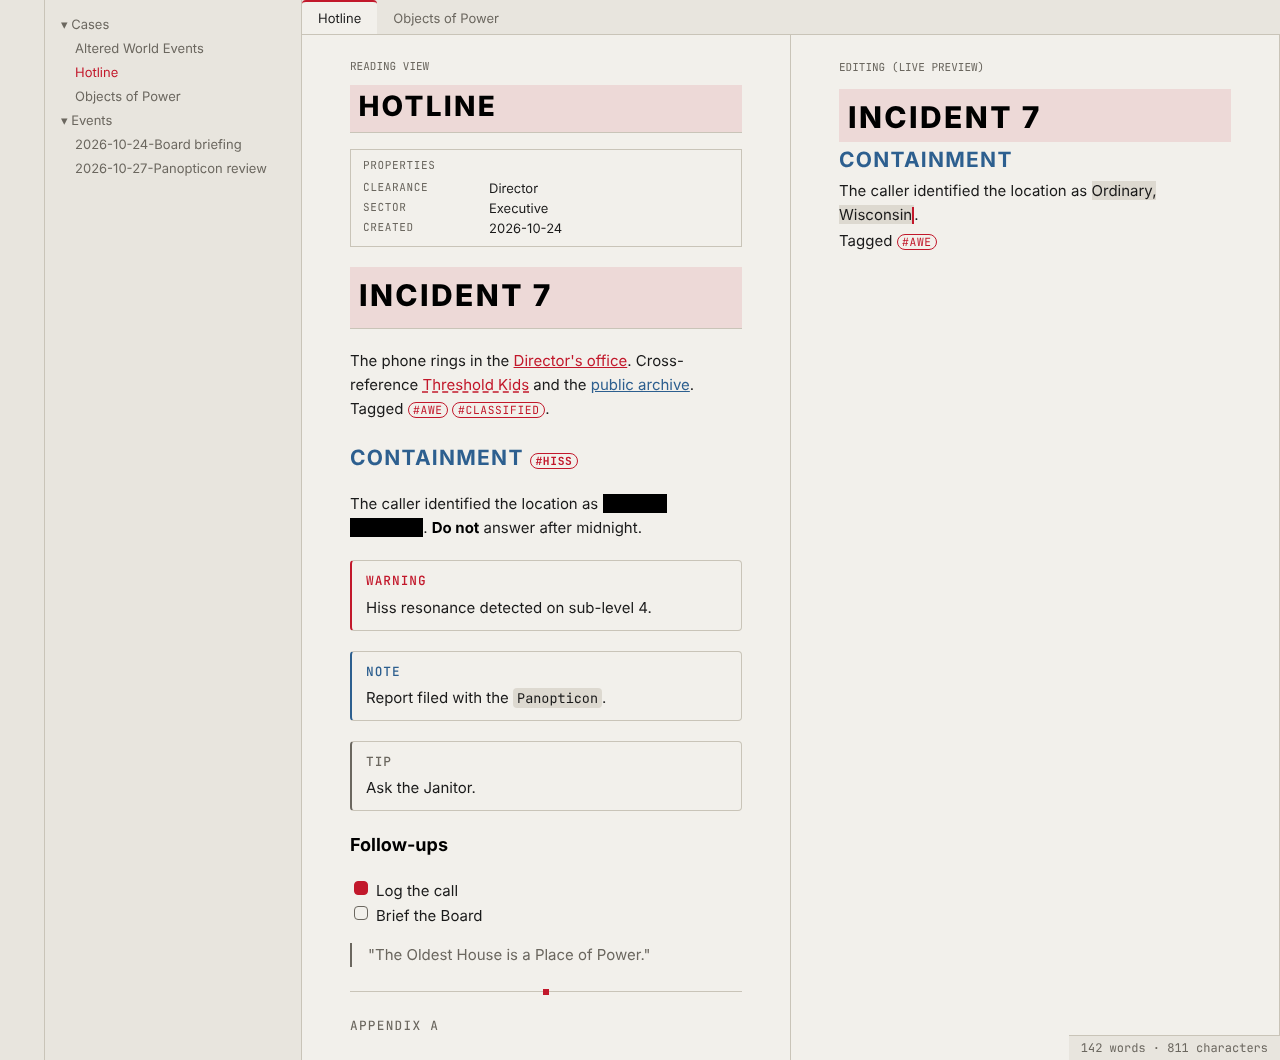
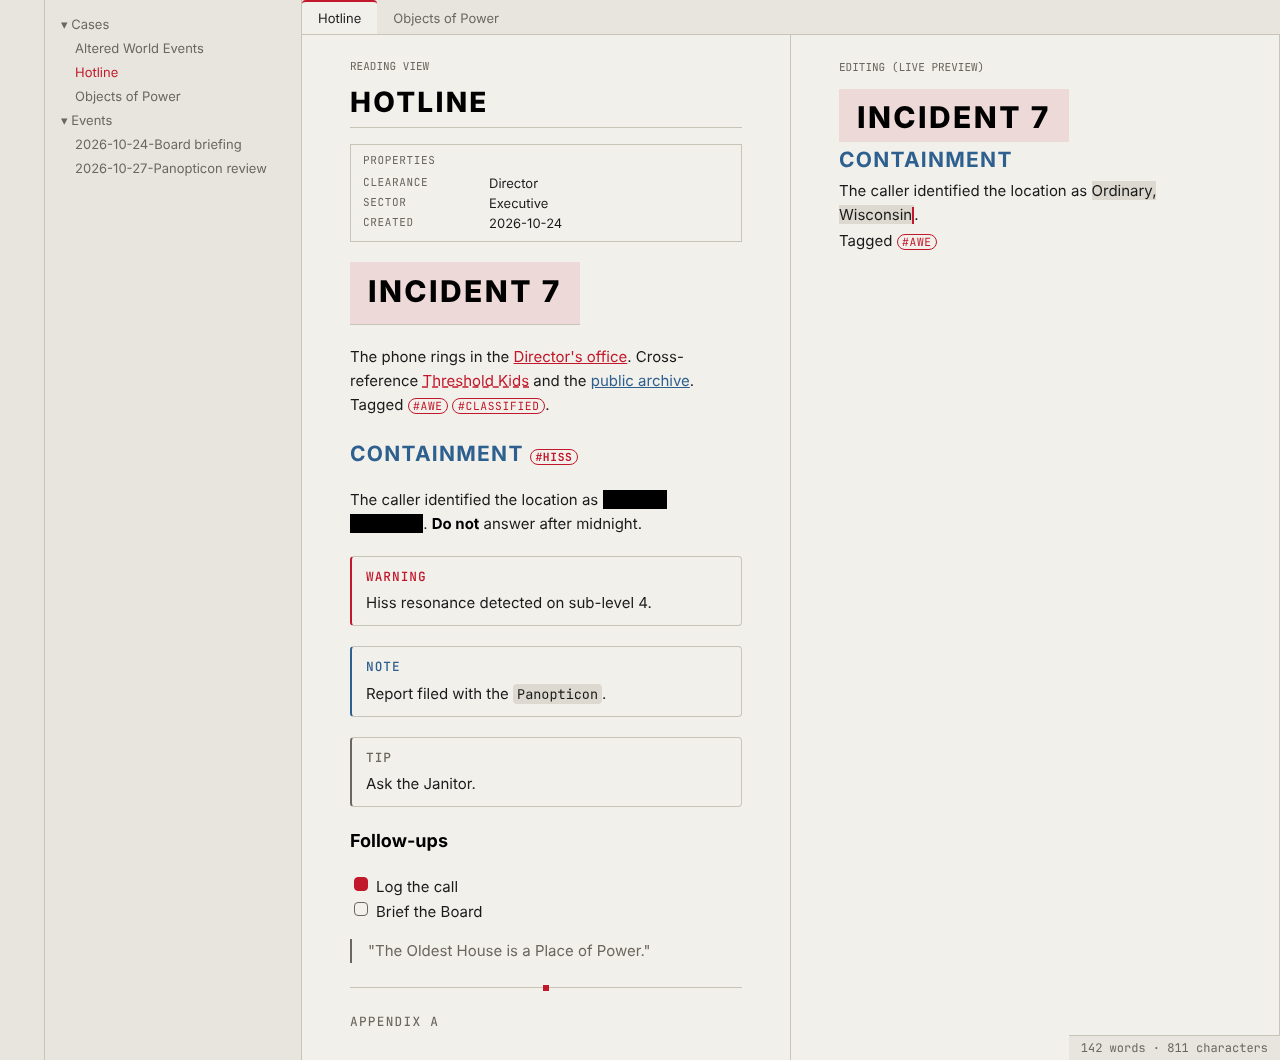
H1 tint: drop it from the note title, end it with the text, pad the left
- The inline (note) title keeps the plain title-card look.
- The H1 tint is as wide as the heading text (width: fit-content) in reading
  view and the editor, with 0.6em padding on each side.

Claude-Session: https://claude.ai/code/session_0183CVB8Nj2aCLdQP4iCXtwj

diff --git a/test/structure.test.js b/test/structure.test.js
@@ -87,12 +87,16 @@ test('active markers', () => {
   assert.equal(tab.decl['border-top'], '2px solid var(--bureau-red)');
 });
 
-test('H1 sits on a light red tint, still readable', () => {
+test('H1 sits on a light red tint that ends with the text, still readable', () => {
   const { hexToRgb } = require('./css');
   const h1 = find(/\.markdown-rendered h1\b/).find((r) => r.decl['background-color']);
   assert.ok(h1, 'an H1 rule sets background-color');
-  for (const s of ['.inline-title', '.HyperMD-header-1']) assert.ok(h1.selector.includes(s), s);
+  assert.ok(h1.selector.includes('.HyperMD-header-1'), 'editor H1 too');
+  assert.ok(!find(/\.inline-title/).some((r) => r.decl['background-color']), 'the note title has no tint');
   assert.equal(h1.decl['background-color'], 'var(--bureau-h1-background)');
+  // The tint hugs the text, with room on the left.
+  assert.equal(h1.decl.width, 'fit-content');
+  assert.equal(h1.decl['padding-left'], '0.6em');
 
   for (const mode of ['body.theme-dark', 'body.theme-light']) {
     const v = varsFor(css, mode);

diff --git a/theme.css b/theme.css
@@ -155,14 +155,15 @@ body.theme-light {
   border-bottom: 1px solid var(--background-modifier-border);
 }
 
-/* Top-level headings sit on a light red tint: the one place red is a fill. */
+/* H1 sits on a light red tint that ends with the text: the one place red is a
+   fill. The note title (inline title) keeps the plain title-card look. */
 .markdown-rendered h1,
-.inline-title,
 .HyperMD-header-1 {
+  width: fit-content;
   background-color: var(--bureau-h1-background);
   padding-top: 0.15em;
-  padding-left: 0.3em;
-  padding-right: 0.3em;
+  padding-left: 0.6em;
+  padding-right: 0.6em;
 }
 
 .markdown-rendered h2,

diff --git a/CLAUDE.md b/CLAUDE.md
@@ -10,7 +10,7 @@ typographic, restrained. Comfortable for hours of reading and writing, not just 
   a test enforces it): Obsidian's rounded UI, on mobile especially, clashed with square overrides.
 - **Two accents, one job each.** Red points inside the vault (internal links, tags, cursor,
   active file and tab, checkboxes). Blue points outside it (web links), plus H2. Neither is
-  a large fill, with one deliberate exception: a light red tint behind H1 and the inline title.
+  a large fill, with one deliberate exception: a light red tint behind H1 (not the note title).
 - Never neon, glow, glitch or gradients.
 - Every text colour is at least 4.5:1 on its background in both modes.
 - Spec: `docs/superpowers/specs/2026-10-24-bureau-theme-design.md`.
@@ -18,8 +18,8 @@ typographic, restrained. Comfortable for hours of reading and writing, not just 
 ## What the theme does (v0.0.1)
 - Dark ("the Oldest House") and light ("paper") palettes in `body.theme-dark` / `body.theme-light`;
   theme tokens `--bureau-strong`, `--bureau-red`, `--bureau-blue` and their `-rgb` forms.
-- Title-card headings (H1, inline title, H2 uppercase), H4–H6 monospace labels. H1 and the
-  inline title sit on `--bureau-h1-background` (red at 14% dark / 10% light).
+- Title-card headings (H1, inline title, H2 uppercase), H4–H6 monospace labels. H1 sits on
+  `--bureau-h1-background` (red at 14% dark / 10% light), as wide as its text, 0.6em padding.
 - Properties as a case-file header, tags as stamps, callouts as memos (every built-in type
   remapped to blue, red or grey).
 - `==highlights==` are redaction bars in reading view, revealed on hover/tap/focus; readable

diff --git a/docs/superpowers/specs/2026-10-24-bureau-theme-design.md b/docs/superpowers/specs/2026-10-24-bureau-theme-design.md
@@ -31,7 +31,7 @@ Mostly black and white. Two accents, each with one job:
 
 Rule of thumb: **red points inside the vault, blue points outside it** (plus one heading level).
 Neither accent is used as a large fill; red is at most a 2px bar or a stamp border, with one
-deliberate exception added later: a light red tint behind H1 and the inline title. Exact
+deliberate exception added later: a light red tint behind H1 (not the note title). Exact
 hex values may be nudged during implementation to keep body-text contrast at least 4.5:1
 (WCAG AA) on its background.
 
@@ -43,7 +43,8 @@ Font stacks (all overridable through Obsidian's own font settings):
 
 Heading ladder (the title-card look):
 - H1: uppercase, weight 800, letter-spacing 0.08em, text strong, a 1px rule below, on a light
-  red tint (`rgba(red, 0.14)` dark, `0.1` light; heading text stays at least 7:1).
+  red tint (`rgba(red, 0.14)` dark, `0.1` light; heading text stays at least 7:1) that is as
+  wide as the text, with 0.6em padding each side. The inline title has no tint.
 - H2: uppercase, weight 700, letter-spacing 0.06em, **blue**.
 - H3: weight 700, text strong, normal case.
 - H4–H6: monospace, uppercase, small, muted (they read as file labels).

diff --git a/README.md b/README.md
@@ -21,7 +21,7 @@ Callouts are remapped to the palette: `note`/`info` blue, warnings and errors re
 
 ## Details
 
-- **Headings:** H1 and the note title are uppercase title cards on a light red tint; H2 is uppercase and blue;
+- **Headings:** H1 and the note title are uppercase title cards, H1 on a light red tint that ends with the text; H2 is uppercase and blue;
   H4–H6 are small monospace labels.
 - **Properties** read as a case-file header; **tags** as classification stamps;
   **callouts** as memos.
